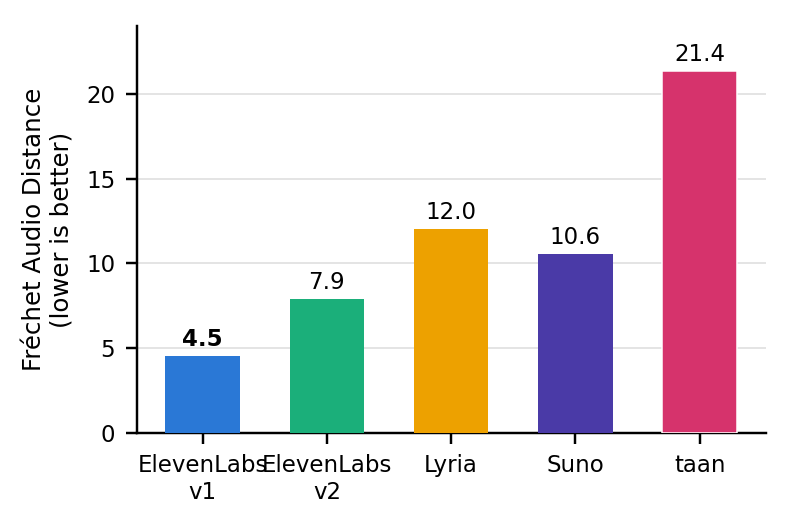
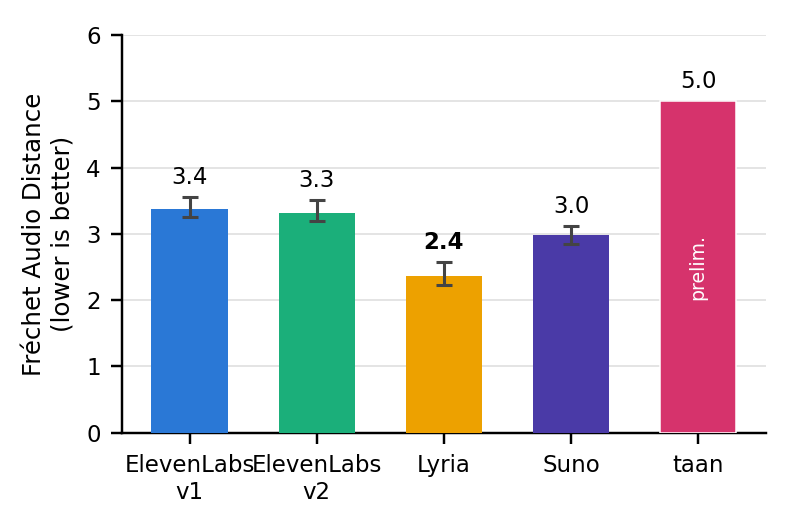
updated benchmark page preview

diff --git a/index.html b/index.html
@@ -195,17 +195,19 @@
 <section id="quality" class="alt"><div class="wrap">
   <span class="eyebrow">Music quality</span>
   <h2>Timing control, without giving up on sound.</h2>
-  <p class="section-intro">Controllability only counts if the music still sounds good. As a
-  first check we score audio fidelity with Fréchet Audio Distance (FAD) on the single-event
-  clips, a standard generative-audio metric where lower is better. taan trails the
-  commercial field on fidelity today; that is a deliberate early trade for timing precision
-  none of them have, and quality is the fastest-moving part of the stack.</p>
+  <p class="section-intro">Controllability only counts if the music still sounds good. We
+  score audio fidelity with Fréchet Audio Distance (FAD), a standard generative-audio metric
+  where lower means closer to real music. Each clip is loudness-normalized to &minus;14 LUFS,
+  trimmed to 30 s, and turned into VGGish features; those are compared against a fixed
+  real-music reference corpus (GTZAN), with 95% confidence intervals over clips. taan trails
+  the commercial field on fidelity today; that is a deliberate early trade for timing
+  precision none of them have, and quality is the fastest-moving part of the stack.</p>
   <div class="card fig">
     <img src="assets/quality.png" alt="Fréchet Audio Distance by system, lower is better, taan compared to four commercial systems">
-    <div class="cap"><strong>Fréchet Audio Distance (lower is better).</strong> The four
-    commercial systems fall between 4.5 and 12.0; taan is higher at ~21 today. Preliminary:
-    taan's FAD is an early placeholder that will be updated with the full evaluation. The
-    trade is intentional, timing first and fidelity fast behind it.</div>
+    <div class="cap"><strong>Fréchet Audio Distance vs. real music (lower is better).</strong>
+    Lyria is closest to real music (2.4); the field spans 2.4 to 3.4. taan is a preliminary
+    placeholder at ~5.0 that will be replaced by a measured value in the full evaluation. The
+    trade is intentional: timing first, fidelity fast behind it.</div>
   </div>
 </div></section>
 
